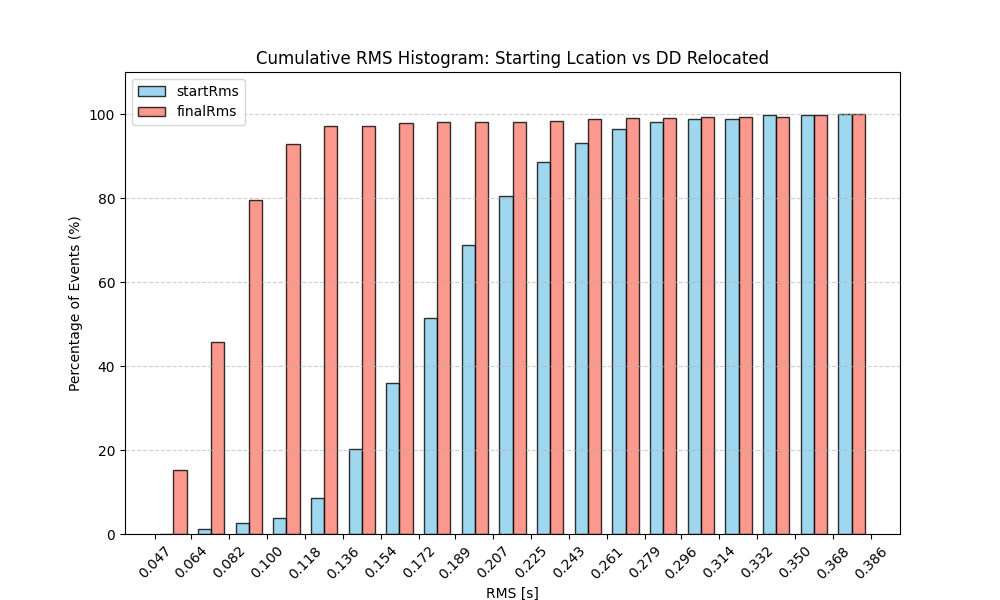
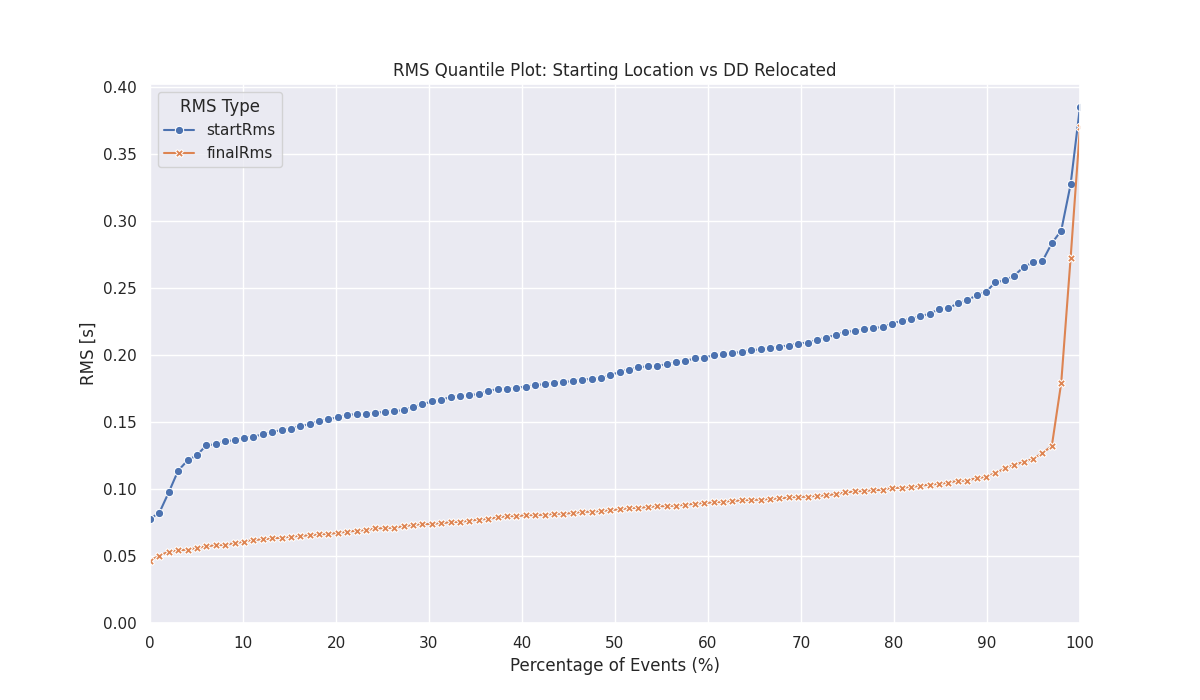
ENH: reworked plot-rms.py script

diff --git a/scripts/plot-rms.py b/scripts/plot-rms.py
@@ -3,52 +3,58 @@
 import pandas as pd
 import matplotlib.pyplot as plt
 import numpy as np
+import seaborn as sns
 import sys
 
-num_bins=20
+# Set the seaborn theme for aesthetics
+sns.set_theme(style="darkgrid")
+
+num_quantiles = 100
+ylim = None
 
 if len(sys.argv) < 2:
-    print(f"{sys.argv[0]} reloc-event.csv [num-bins]")
+    print(f"{sys.argv[0]} reloc-event.csv [num-quantiles] [y-limit]")
     exit(0)
-elif len(sys.argv) >= 3:
-    num_bins=int(sys.argv[2])
+
+if len(sys.argv) >= 3:
+    num_quantiles = int(sys.argv[2])
+
+if len(sys.argv) >= 4:
+    ylim = float(sys.argv[3])
 
 # Load the data
 df = pd.read_csv(sys.argv[1])
 
-# Define common bins for both datasets
-min_rms = min(df['startRms'].min(), df['finalRms'].min())
-max_rms = max(df['startRms'].max(), df['finalRms'].max())
-bins = np.linspace(min_rms, max_rms, num_bins)
+# Define the quantiles we want to calculate (from 0 to 1)
+quantiles = np.linspace(0, 1, num_quantiles)
+percentiles = quantiles * 100
 
-# Calculate the histogram counts for both
-start_counts, _ = np.histogram(df['startRms'], bins=bins)
-final_counts, _ = np.histogram(df['finalRms'], bins=bins)
+# Calculate the RMS values at each quantile
+start_rms_quantiles = df['startRms'].quantile(quantiles).rename('rms')
+final_rms_quantiles = df['finalRms'].quantile(quantiles).rename('rms')
 
-# Convert counts to cumulative percentages
-start_cum_pct = np.cumsum(start_counts) / len(df) * 100
-final_cum_pct = np.cumsum(final_counts) / len(df) * 100
+# Create a tidy DataFrame suitable for seaborn
+plot_df_start = pd.DataFrame({'percentile': percentiles, 'rms': start_rms_quantiles, 'RMS Type': 'startRms'})
+plot_df_final = pd.DataFrame({'percentile': percentiles, 'rms': final_rms_quantiles, 'RMS Type': 'finalRms'})
+plot_df = pd.concat([plot_df_start, plot_df_final])
 
-# Bar chart setup
-bin_centers = (bins[:-1] + bins[1:]) / 2
-width = (bins[1] - bins[0]) * 0.35  # Adjusted width of the bars
+# Line plot setup
+plt.figure(figsize=(12, 7))
 
-plt.figure(figsize=(10, 6))
+# Plot
+sns.lineplot(data=plot_df, x='percentile', y='rms', hue='RMS Type', style='RMS Type', markers=True, dashes=False)
 
-# Plot the bars side-by-side
-# We shift startRms left and finalRms right by half the width
-plt.bar(bin_centers - width/2, start_cum_pct, width=width, 
-        label='startRms', color='skyblue', edgecolor='black', alpha=0.8)
+plt.title('RMS Quantile Plot: Starting Location vs DD Relocated')
+plt.xlabel('Percentage of Events (%)')
+plt.ylabel('RMS [s]')
+plt.legend(title='RMS Type', loc='upper left')
+plt.ylim(bottom=0)  # RMS can't be negative
+if ylim is not None:
+    plt.ylim(top=ylim)
+plt.xlim(0, 100)
 
-plt.bar(bin_centers + width/2, final_cum_pct, width=width, 
-        label='finalRms', color='salmon', edgecolor='black', alpha=0.8)
-
-plt.title('Cumulative RMS Histogram: Starting Lcation vs DD Relocated')
-plt.xlabel('RMS [s]')
-plt.ylabel('Percentage of Events (%)')
-plt.xticks(bins.round(3), rotation=45) # Show bin edges on x-axis
-plt.legend(loc='upper left')
-plt.grid(axis='y', linestyle='--', alpha=0.6)
-plt.ylim(0, 110)
+# Set ticks for better readability
+plt.xticks(np.arange(0, 101, 10))
 
 plt.savefig('rms-comparison.png')
+
